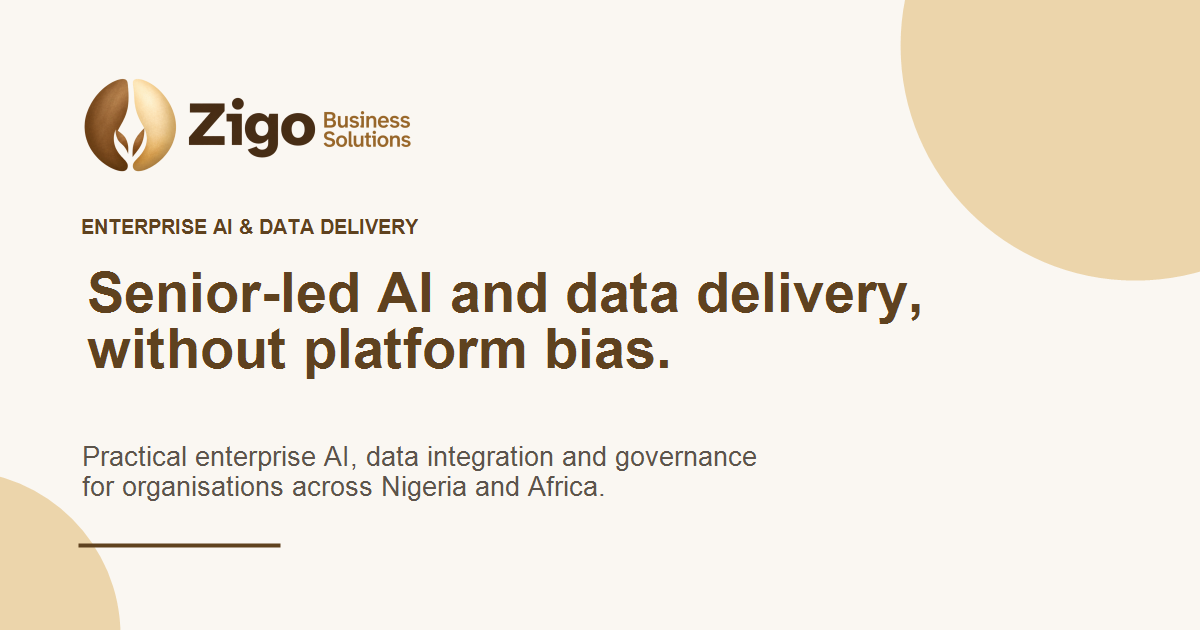
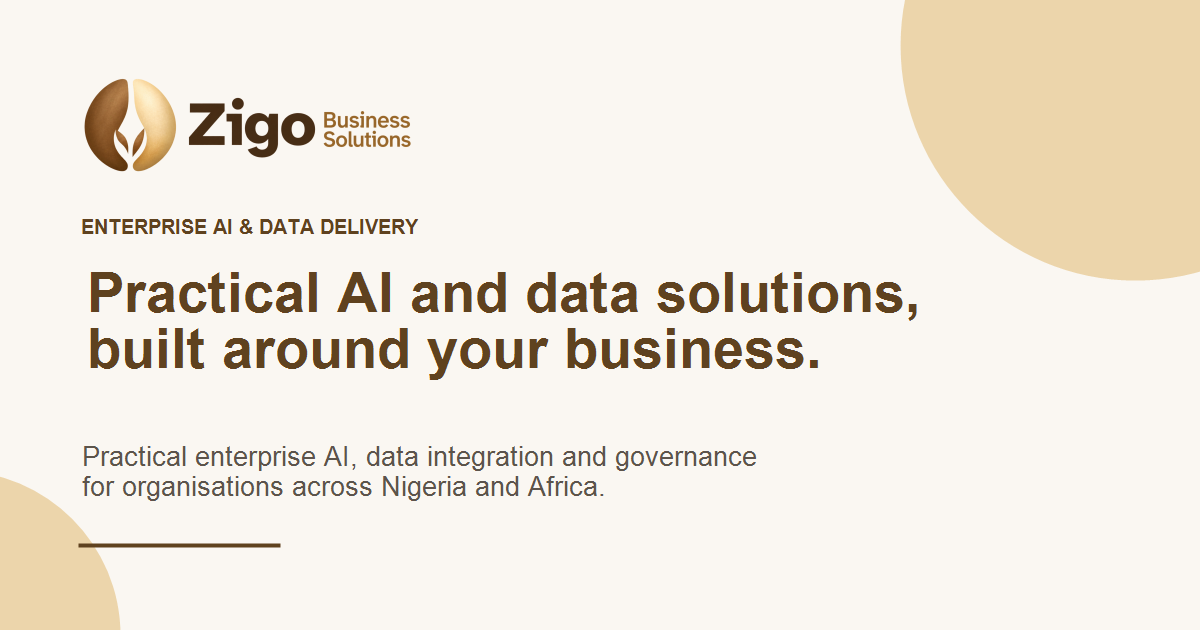
Refresh homepage positioning

Changed region(s): [[0.0617, 0.4222, 0.7708, 0.6032]]

diff --git a/src/components/Seo.jsx b/src/components/Seo.jsx
@@ -59,7 +59,7 @@ export default function Seo() {
     setMeta('meta[property="og:type"]', { property: 'og:type', content: 'website' });
     setMeta('meta[property="og:url"]', { property: 'og:url', content: canonicalUrl });
     setMeta('meta[property="og:image"]', { property: 'og:image', content: defaultImage });
-    setMeta('meta[property="og:image:alt"]', { property: 'og:image:alt', content: 'Zigo Business Solutions: Senior-led AI and data delivery, without platform bias.' });
+    setMeta('meta[property="og:image:alt"]', { property: 'og:image:alt', content: 'Zigo Business Solutions: Practical AI and data solutions, built around your business.' });
     setMeta('meta[property="og:image:type"]', { property: 'og:image:type', content: 'image/png' });
     setMeta('meta[property="og:image:width"]', { property: 'og:image:width', content: '1200' });
     setMeta('meta[property="og:image:height"]', { property: 'og:image:height', content: '630' });

diff --git a/index.html b/index.html
@@ -19,7 +19,7 @@
     <meta property='og:image:type' content='image/png' />
     <meta property='og:image:width' content='1200' />
     <meta property='og:image:height' content='630' />
-    <meta property='og:image:alt' content='Zigo Business Solutions: Senior-led AI and data delivery, without platform bias.' />
+    <meta property='og:image:alt' content='Zigo Business Solutions: Practical AI and data solutions, built around your business.' />
     <meta name='twitter:card' content='summary_large_image' />
     <meta name='twitter:title' content='Senior-Led Enterprise AI &amp; Data Delivery | Zigo Business' />
     <meta name='twitter:description' content='Practical enterprise AI, data integration and governance for organisations across Nigeria and Africa.' />

diff --git a/src/components/HeroEnterprise.jsx b/src/components/HeroEnterprise.jsx
@@ -7,8 +7,8 @@ const slides = [
     id: 'enterprise-ai',
     eyebrow: 'Senior-led enterprise AI and data delivery',
     icon: Sparkles,
-    title: 'Senior-led AI and data delivery,',
-    emphasis: 'without platform bias.',
+    title: 'Practical AI and data solutions,',
+    emphasis: 'built around your business.',
     description: 'Zigo helps organisations assess, integrate and operationalise enterprise AI and data solutions around their existing systems, security requirements and business priorities.',
     primary: { label: 'Book a Consultation', to: '/contact' },
     secondary: { label: 'Explore Enterprise AI Services', to: '/services/ai-services' },
